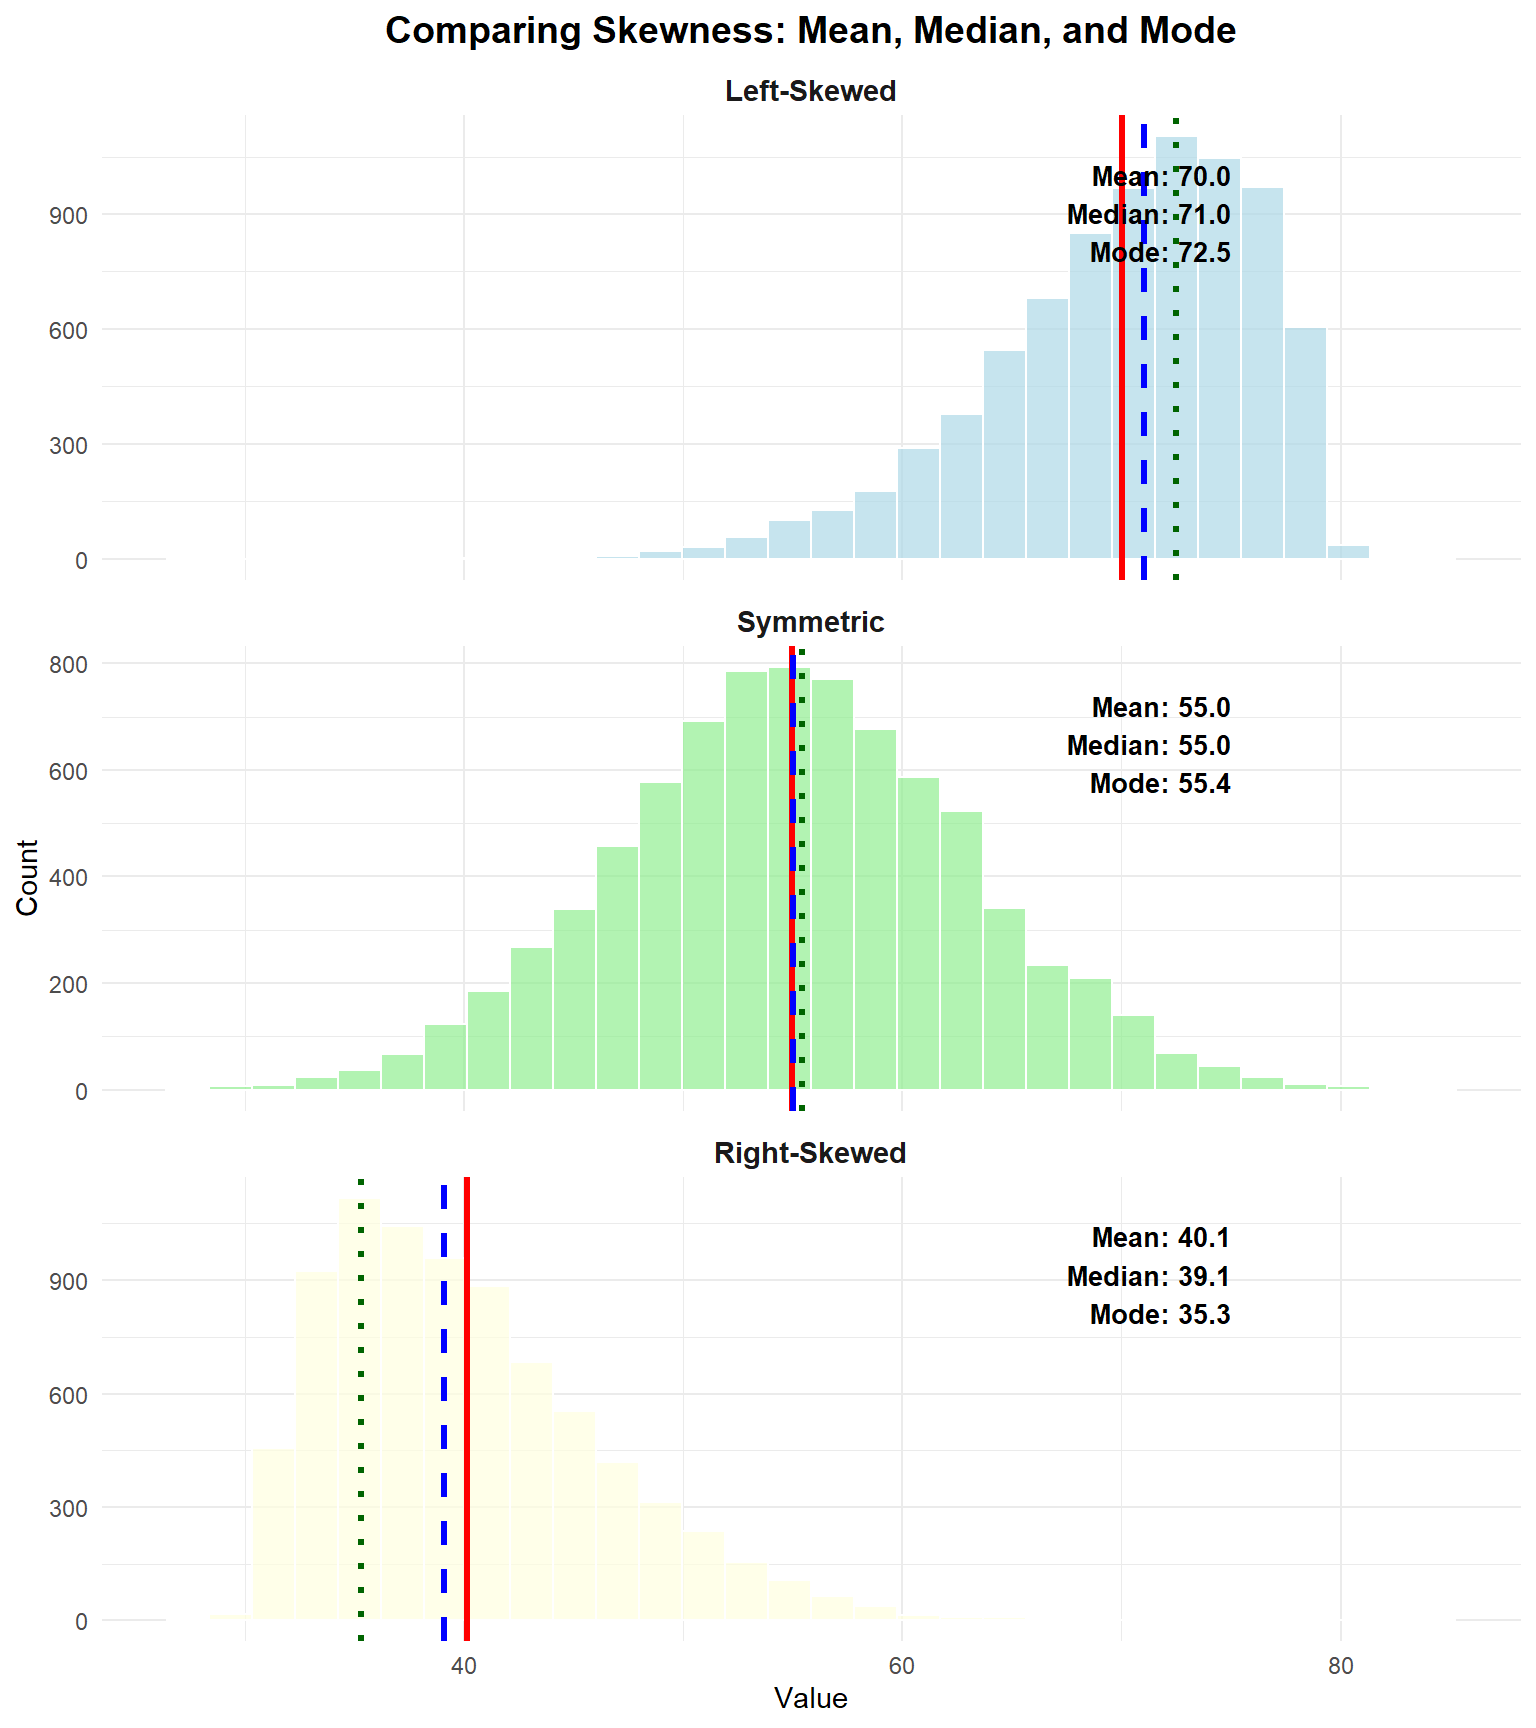
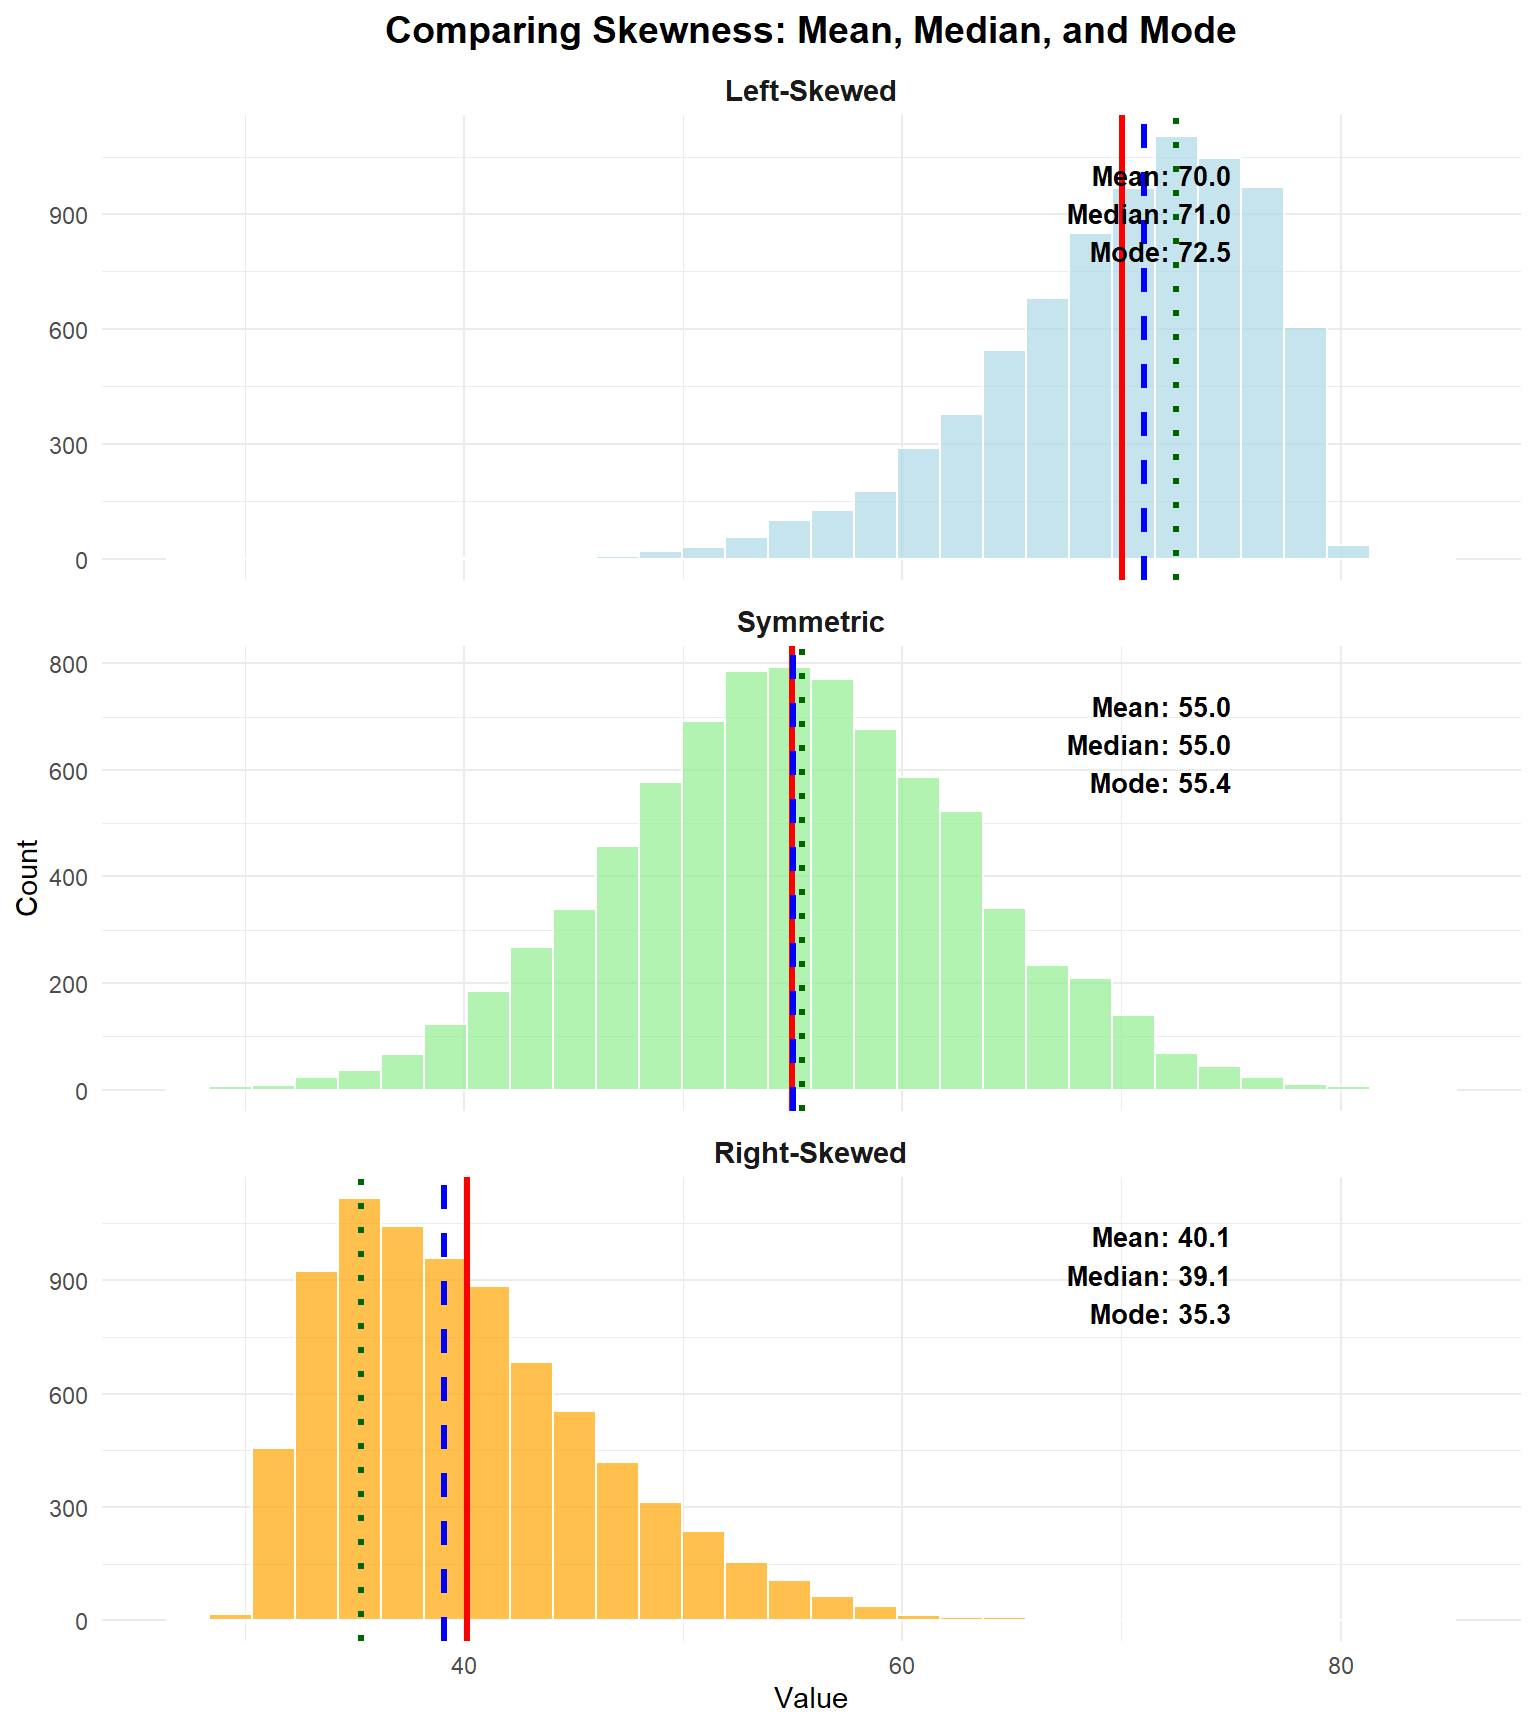
Update rendered book

Changed region(s): [[0.1562, 0.6875, 0.5938, 0.9375]]

diff --git a/docs/rozdzial5.html b/docs/rozdzial5.html
@@ -1846,7 +1846,7 @@ Miary tendencji centralnej i rozproszenia: Tabela porównawcza
 <span id="cb18-44"><a href="#cb18-44" aria-hidden="true" tabindex="-1"></a>  <span class="fu">facet_wrap</span>(<span class="sc">~</span> type, <span class="at">ncol =</span> <span class="dv">1</span>, <span class="at">scales =</span> <span class="st">"free_y"</span>) <span class="sc">+</span></span>
 <span id="cb18-45"><a href="#cb18-45" aria-hidden="true" tabindex="-1"></a>  <span class="fu">scale_fill_manual</span>(<span class="at">values =</span> <span class="fu">c</span>(<span class="st">"Lewostronnie skośny"</span> <span class="ot">=</span> <span class="st">"lightblue"</span>, </span>
 <span id="cb18-46"><a href="#cb18-46" aria-hidden="true" tabindex="-1"></a>                                <span class="st">"Symetryczny"</span> <span class="ot">=</span> <span class="st">"lightgreen"</span>, </span>
-<span id="cb18-47"><a href="#cb18-47" aria-hidden="true" tabindex="-1"></a>                                <span class="st">"Prawostronnie skośny"</span> <span class="ot">=</span> <span class="st">"#FFFFE0"</span>)) <span class="sc">+</span></span>
+<span id="cb18-47"><a href="#cb18-47" aria-hidden="true" tabindex="-1"></a>                                <span class="st">"Prawostronnie skośny"</span> <span class="ot">=</span> <span class="st">"orange"</span>)) <span class="sc">+</span></span>
 <span id="cb18-48"><a href="#cb18-48" aria-hidden="true" tabindex="-1"></a>  <span class="fu">labs</span>(<span class="at">x =</span> <span class="st">"Wartość"</span>, <span class="at">y =</span> <span class="st">"Liczebność"</span>, </span>
 <span id="cb18-49"><a href="#cb18-49" aria-hidden="true" tabindex="-1"></a>       <span class="at">title =</span> <span class="st">"Porównanie skośności: Średnia, mediana i modalna"</span>) <span class="sc">+</span></span>
 <span id="cb18-50"><a href="#cb18-50" aria-hidden="true" tabindex="-1"></a>  <span class="fu">theme_minimal</span>() <span class="sc">+</span></span>
@@ -2214,7 +2214,7 @@ Miary tendencji centralnej i rozproszenia: Tabela porównawcza
 <h2 data-number="6.11" class="anchored" data-anchor-id="wizualizacja-wykres-pudełkowy-tukeya"><span class="header-section-number">6.11</span> Wizualizacja: Wykres pudełkowy Tukeya</h2>
 <p><strong>Wykres pudełkowy Tukeya</strong> (ang. <em>boxplot</em> lub <em>box-and-whisker plot</em>) dostarcza wizualnego podsumowania rozkładu zmiennej w oparciu o kwartyle oraz identyfikuje obserwacje odstające przy użyciu systematycznej reguły opartej na rozstępie międzykwartylowym (IQR).</p>
 <blockquote class="blockquote">
-<p>John Wilder Tukey był amerykańskim matematykiem i statystykiem, najbardziej znanym z opracowania algorytmu szybkiej transformaty Fouriera oraz wykresu pudełkowego.</p>
+<p>John Wilder Tukey był amerykańskim matematykiem i statystykiem, najbardziej znanym z opracowania algorytmu transformaty Fouriera oraz wykresu pudełkowego.</p>
 </blockquote>
 <hr>
 <div class="cell">
@@ -2222,7 +2222,7 @@ Miary tendencji centralnej i rozproszenia: Tabela porównawcza
 <div id="fig-boxplot-ggplot-pl" class="quarto-float quarto-figure quarto-figure-center anchored">
 <figure class="quarto-float quarto-float-fig figure">
 <div aria-describedby="fig-boxplot-ggplot-pl-caption-0ceaefa1-69ba-4598-a22c-09a6ac19f8ca">
-<img src="rozdzial5_files/figure-html/fig-boxplot-ggplot-pl-1.png" class="img-fluid figure-img" width="1536">
+<img src="rozdzial5_files/figure-html/fig-boxplot-ggplot-pl-1.png" class="img-fluid figure-img" width="1728">
 </div>
 <figcaption class="quarto-float-caption-bottom quarto-float-caption quarto-float-fig" id="fig-boxplot-ggplot-pl-caption-0ceaefa1-69ba-4598-a22c-09a6ac19f8ca">
 Figure&nbsp;6.2: Konstrukcja wykresu pudełkowego Tukeya z użyciem ggplot2

diff --git a/docs/chapter5.html b/docs/chapter5.html
@@ -1933,7 +1933,7 @@ Measures of Center and Dispersion: Summary Table
 <span id="cb19-44"><a href="#cb19-44" aria-hidden="true" tabindex="-1"></a>  <span class="fu">facet_wrap</span>(<span class="sc">~</span> type, <span class="at">ncol =</span> <span class="dv">1</span>, <span class="at">scales =</span> <span class="st">"free_y"</span>) <span class="sc">+</span></span>
 <span id="cb19-45"><a href="#cb19-45" aria-hidden="true" tabindex="-1"></a>  <span class="fu">scale_fill_manual</span>(<span class="at">values =</span> <span class="fu">c</span>(<span class="st">"Left-Skewed"</span> <span class="ot">=</span> <span class="st">"lightblue"</span>, </span>
 <span id="cb19-46"><a href="#cb19-46" aria-hidden="true" tabindex="-1"></a>                                <span class="st">"Symmetric"</span> <span class="ot">=</span> <span class="st">"lightgreen"</span>, </span>
-<span id="cb19-47"><a href="#cb19-47" aria-hidden="true" tabindex="-1"></a>                                <span class="st">"Right-Skewed"</span> <span class="ot">=</span> <span class="st">"#FFFFE0"</span>)) <span class="sc">+</span></span>
+<span id="cb19-47"><a href="#cb19-47" aria-hidden="true" tabindex="-1"></a>                                <span class="st">"Right-Skewed"</span> <span class="ot">=</span> <span class="st">"orange"</span>)) <span class="sc">+</span></span>
 <span id="cb19-48"><a href="#cb19-48" aria-hidden="true" tabindex="-1"></a>  <span class="fu">labs</span>(<span class="at">x =</span> <span class="st">"Value"</span>, <span class="at">y =</span> <span class="st">"Count"</span>, </span>
 <span id="cb19-49"><a href="#cb19-49" aria-hidden="true" tabindex="-1"></a>       <span class="at">title =</span> <span class="st">"Comparing Skewness: Mean, Median, and Mode"</span>) <span class="sc">+</span></span>
 <span id="cb19-50"><a href="#cb19-50" aria-hidden="true" tabindex="-1"></a>  <span class="fu">theme_minimal</span>() <span class="sc">+</span></span>
@@ -2309,7 +2309,7 @@ Measures of Center and Dispersion: Summary Table
 <div id="fig-boxplot-ggplot" class="quarto-float quarto-figure quarto-figure-center anchored">
 <figure class="quarto-float quarto-float-fig figure">
 <div aria-describedby="fig-boxplot-ggplot-caption-0ceaefa1-69ba-4598-a22c-09a6ac19f8ca">
-<img src="chapter5_files/figure-html/fig-boxplot-ggplot-1.png" class="img-fluid figure-img" width="1536">
+<img src="chapter5_files/figure-html/fig-boxplot-ggplot-1.png" class="img-fluid figure-img" width="1728">
 </div>
 <figcaption class="quarto-float-caption-bottom quarto-float-caption quarto-float-fig" id="fig-boxplot-ggplot-caption-0ceaefa1-69ba-4598-a22c-09a6ac19f8ca">
 Figure&nbsp;5.2: Construction of Tukey’s boxplot using ggplot2
